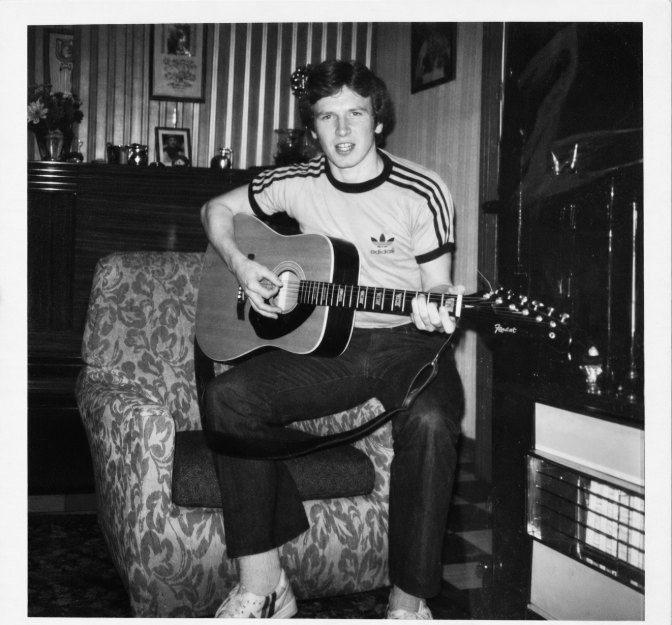
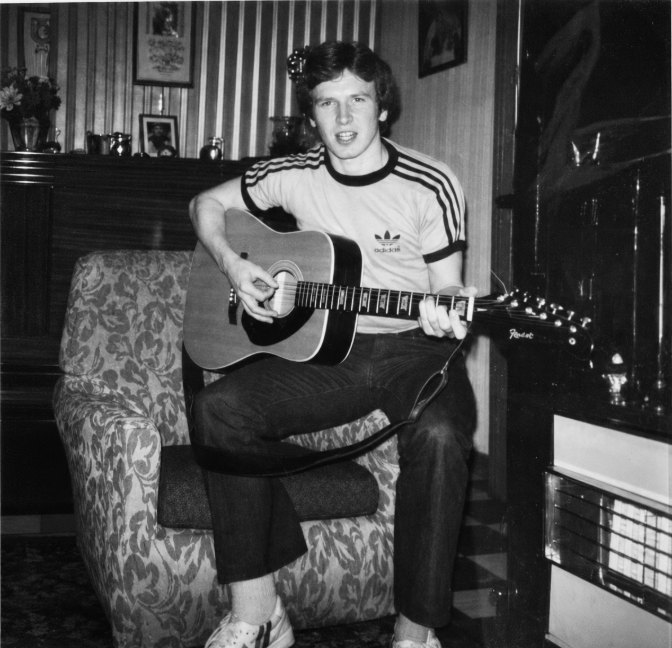
Give the About photographs their own column
Three things Frank asked for, and the first is why the layout changed rather
than being tweaked. Text wrapped around a float runs on underneath the picture
once it clears the bottom of it, which left the last line of the closing
paragraph stranded below the photograph. A float cannot not do that. So the
paragraph and its picture are two columns now, topped level with each other,
and the text stays in its own however long it runs.

The Then and Now captions are gone. The pictures are thirty years apart and
say so without being told.

The seventies photograph is a scan of a print and arrived with the paper
border it was cut with, so it is cropped to the picture — 53,43,1192,1150 of
the original, recorded in the make-hero-images argument because the originals
are not committed and the command is the only account of how the file got
its shape.

diff --git a/src/pages/About.jsx b/src/pages/About.jsx
@@ -2,20 +2,27 @@ import PagePhoto from '../components/PagePhoto'
 import { about } from '../content/about'
 import { usePageMeta } from '../usePageMeta'
 
-// A caption in the same small-caps vocabulary as the snapshot tag and the
-// download buttons, so a photograph set into the text reads as part of the page
-// rather than as something pasted onto it.
-// `width` is per-picture rather than shared because the two are different
-// shapes: a floated figure taller than the paragraph beside it drops that
-// paragraph's last line on its own underneath the picture.
-function Figure({ name, caption, className, width = 'sm:w-56' }) {
+// A paragraph with a photograph beside it.
+//
+// Side by side rather than floated, which is the whole point: text wrapped
+// around a float runs on underneath the picture once it passes the bottom of
+// it, and a closing line stranded under a photograph is what this page looked
+// like before. Two columns cannot do that — the text has its own column and
+// stays in it however long it runs.
+//
+// `items-start` tops the picture level with the first line of the paragraph.
+// Below the breakpoint there is no second column to sit in, so they stack in
+// the order they are written; `side` only decides which way round they sit
+// once there is room, and never changes the reading order.
+function WithPhoto({ name, side = 'right', children }) {
   return (
-    <figure className={`my-4 sm:my-1 ${width} ${className}`}>
-      <PagePhoto name={name} />
-      <figcaption className="mt-1 text-[10px] font-bold uppercase tracking-wider text-gray-600">
-        {caption}
-      </figcaption>
-    </figure>
+    <div className="sm:flex sm:items-start sm:gap-6">
+      <div className={`sm:flex-1 ${side === 'left' ? 'sm:order-2' : ''}`}>{children}</div>
+      <PagePhoto
+        name={name}
+        className={`mt-4 sm:mt-0 sm:w-52 sm:shrink-0 ${side === 'left' ? 'sm:order-1' : ''}`}
+      />
+    </div>
   )
 }
 
@@ -32,34 +39,21 @@ function About() {
     <div className="py-8">
       <h1 className="text-4xl font-bold">About</h1>
 
-      {/* The pictures float only once there is a column wide enough to wrap
-          text around them — below that they are full-width blocks in the order
-          they are read, which is why each <figure> carries its own margin for
-          the stacked case and a tighter one for the floated case.
+      {/* One picture to a paragraph, on alternating sides: the man today
+          against what he writes today, and the photograph from the theatre
+          years against the paragraph about them. The middle paragraph runs the
+          full column, which is what keeps the two from facing each other
+          across it. */}
+      <div className="mt-6 space-y-4 text-sm leading-relaxed">
+        <WithPhoto name="about-now" side="right">
+          <p>{opening}</p>
+        </WithPhoto>
 
-          Now on the right against the opening, then on the left against the
-          musicals — one picture per paragraph rather than two facing each other
-          across the column, which leaves the paragraph between them starting in
-          a two-word gutter. Each float also begins at the top of its own
-          paragraph, so neither lands mid-sentence and strands a short line.
+        <p>{theatre}</p>
 
-          The trailing pseudo-element clears both, so a picture cannot hang past
-          the end of the text it belongs to. */}
-      <div className="mt-6 text-sm leading-relaxed after:block after:clear-both after:content-['']">
-        <Figure name="about-now" caption="Now" className="sm:float-right sm:ml-6" />
-        <p>{opening}</p>
-
-        <p className="mt-4">{theatre}</p>
-
-        {/* Narrower than the portrait above it: this one is nearly square, so
-            at the same width it stands taller than the paragraph beside it. */}
-        <Figure
-          name="about-then"
-          caption="Then"
-          className="sm:float-left sm:mr-6 sm:clear-both"
-          width="sm:w-48"
-        />
-        <p className="mt-4">{projects}</p>
+        <WithPhoto name="about-then" side="left">
+          <p>{projects}</p>
+        </WithPhoto>
       </div>
     </div>
   )

diff --git a/src/components/PagePhoto.jsx b/src/components/PagePhoto.jsx
@@ -1,7 +1,7 @@
 import then672webp from '../images/pages/about-then-672.webp'
-import then1300webp from '../images/pages/about-then-1300.webp'
+import then1192webp from '../images/pages/about-then-1192.webp'
 import then672jpg from '../images/pages/about-then-672.jpg'
-import then1300jpg from '../images/pages/about-then-1300.jpg'
+import then1192jpg from '../images/pages/about-then-1192.jpg'
 
 import now672webp from '../images/pages/about-now-672.webp'
 import now1122webp from '../images/pages/about-now-1122.webp'
@@ -28,11 +28,14 @@ import guitar1344jpg from '../images/pages/contact-guitar-1344.jpg'
 // The alt text says what is in the picture rather than naming the page again.
 const PHOTOS = {
   'about-then': {
-    webp: [`${then672webp} 672w`, `${then1300webp} 1300w`],
-    jpg: [`${then672jpg} 672w`, `${then1300jpg} 1300w`],
+    webp: [`${then672webp} 672w`, `${then1192webp} 1192w`],
+    jpg: [`${then672jpg} 672w`, `${then1192jpg} 1192w`],
     fallback: then672jpg,
-    width: 1300,
-    height: 1209,
+    // The scanned print's paper border is cropped off by the crop recorded in
+    // the make-hero-images command, so these are the picture's own dimensions
+    // rather than the scan's.
+    width: 1192,
+    height: 1150,
     alt: 'A young Frank Kirwan singing and playing a Fender acoustic guitar, perched on the arm of a patterned armchair in a front room.',
   },
   'about-now': {
